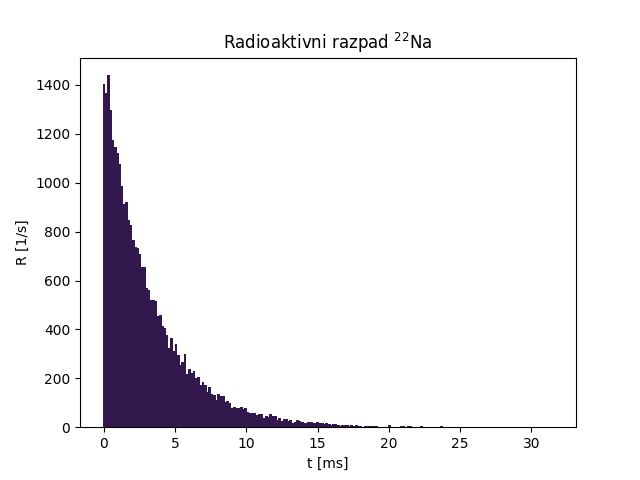
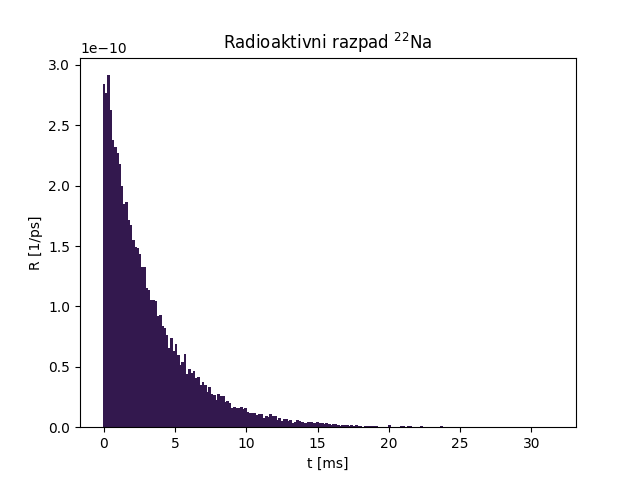
Time resolution

diff --git a/Gamma-Gamma/main_gg.py b/Gamma-Gamma/main_gg.py
@@ -4,16 +4,26 @@ import cmasher as cmr
 
 c1, c2, c3 = cmr.take_cmap_colors("cmr.cosmic", 3, cmap_range=(0.2, 1), return_fmt="hex")
 
+# Time resolution of TDC
+data_TDC = np.column_stack(np.genfromtxt("loc_24-4.txt", skip_header=12))
+time_bins_tdc = data_TDC[0] / 1.0e+09
+counts_tdc = data_TDC[1]
+plt.bar(time_bins_tdc, counts_tdc, color=c1, width=(time_bins_tdc[1]-time_bins_tdc[0]))
+print(np.std(data_TDC[1]))
+
+plt.title(r"Časovna ločljivost TDC")
+plt.xlabel("t [ms]")
+plt.ylabel("N")
+plt.show()
+
 
 # Radioactive decay
-data = np.column_stack(np.genfromtxt("decay_0.txt", skip_header=12))
-time_bins = data[0] / 1.0e+09  # Convert from ps to ms
-counts = data[1]
-print(time_bins)
-print(counts)
-plt.bar(time_bins, counts, color=c1, width=0.2)
+data_decay = np.column_stack(np.genfromtxt("decay_0.txt", skip_header=12))
+time_bins = data_decay[0] / 1.0e+09  # Convert from ps to ms
+pdf = data_decay[2]
+plt.bar(time_bins, pdf, color=c1, width=0.2)
 
 plt.title(r"Radioaktivni razpad $^{22}\mathrm{Na}$")
 plt.xlabel("t [ms]")
-plt.ylabel("R [1/s]")
+plt.ylabel("R [1/ps]")
 plt.show()
